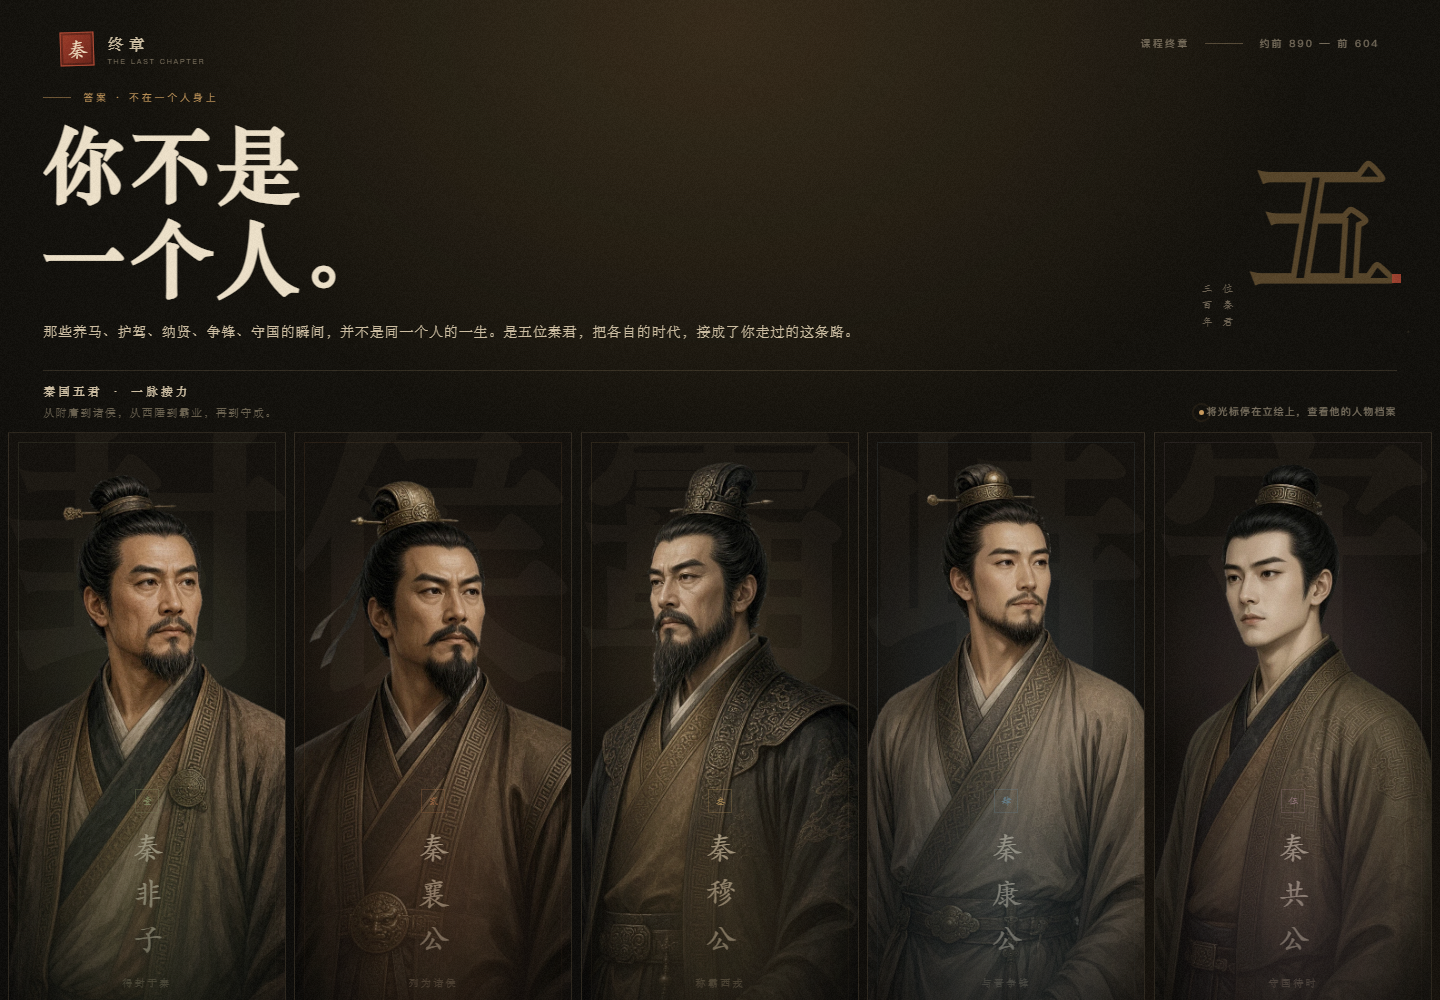
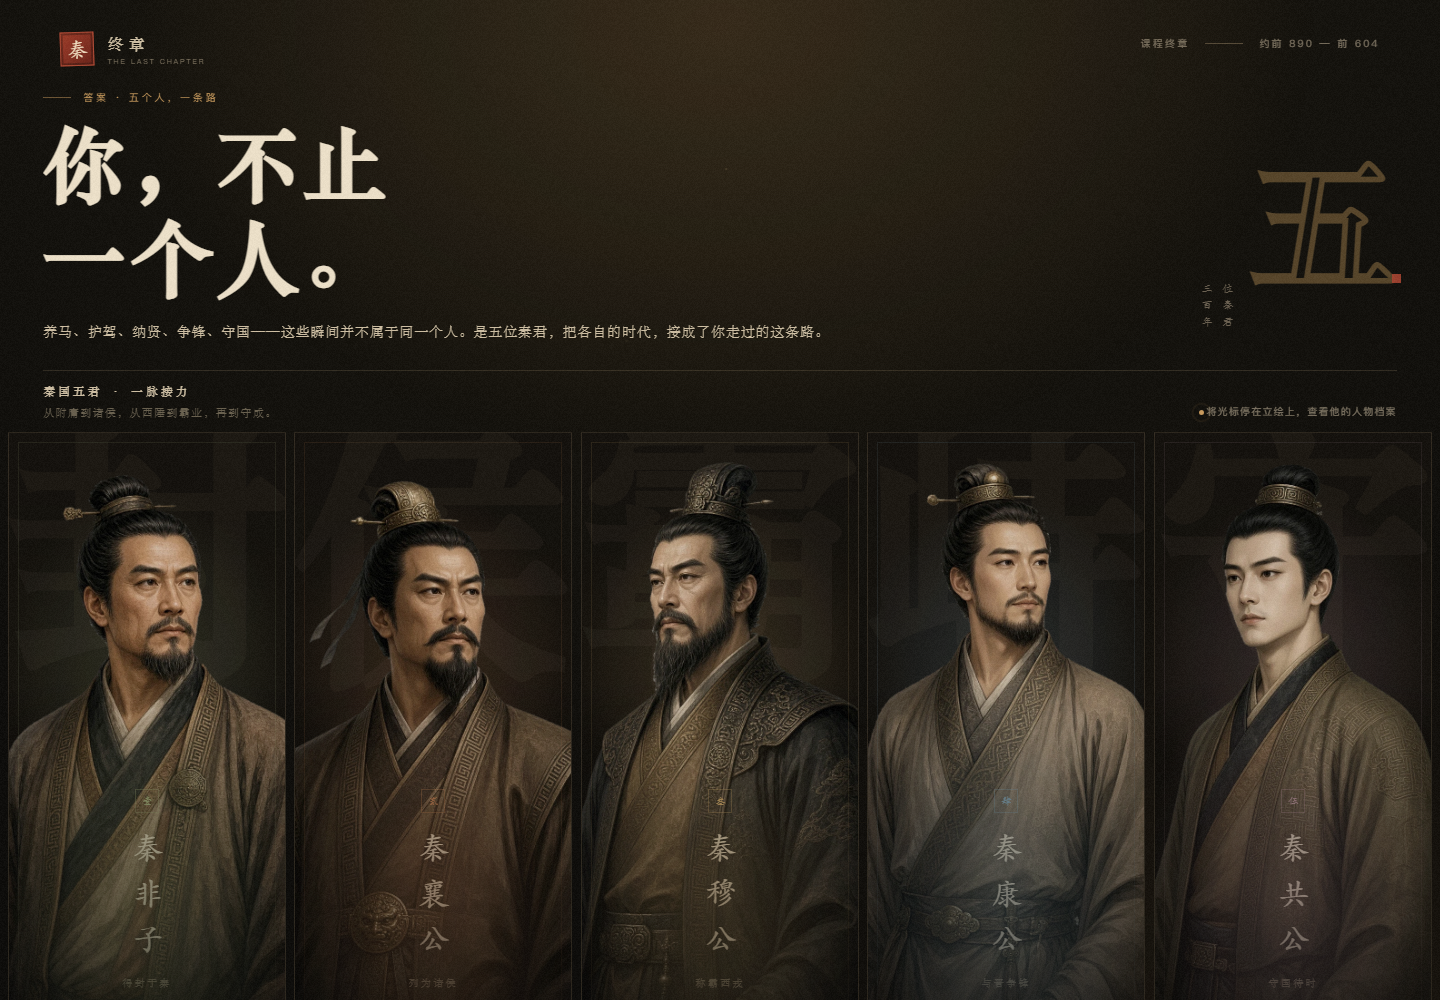
copy: reframe headline as more than one person

Changed region(s): [[0.0312, 0.31, 0.5938, 0.341], [0.0938, 0.093, 0.2812, 0.217]]

diff --git a/index.html b/index.html
@@ -4,7 +4,7 @@
   <meta charset="UTF-8" />
   <meta name="viewport" content="width=device-width, initial-scale=1, viewport-fit=cover" />
   <meta name="theme-color" content="#0c0b09" />
-  <title>你不是一个人 · 秦的终章</title>
+  <title>你，不止一个人 · 秦的终章</title>
   <meta name="description" content="课程终章互动：那些你以为由一个人完成的事，其实是秦国五位君主接力的三百年。" />
   <link rel="stylesheet" href="styles.css" />
 </head>
@@ -61,12 +61,12 @@
   <main class="reveal" id="reveal" aria-labelledby="thesis-title" aria-hidden="true">
     <section class="thesis">
       <div class="thesis-copy">
-        <p class="eyebrow"><span class="eyebrow-line" aria-hidden="true"></span>答案 · 不在一个人身上</p>
+        <p class="eyebrow"><span class="eyebrow-line" aria-hidden="true"></span>答案 · 五个人，一条路</p>
         <h1 class="thesis-title" id="thesis-title" tabindex="-1">
-          <span class="title-line"><span>你不是</span></span>
+          <span class="title-line"><span>你，不止</span></span>
           <span class="title-line"><span>一个人。</span></span>
         </h1>
-        <p class="lede">那些养马、护驾、纳贤、争锋、守国的瞬间，并不是同一个人的一生。是五位秦君，把各自的时代，接成了你走过的这条路。</p>
+        <p class="lede">养马、护驾、纳贤、争锋、守国——这些瞬间并不属于同一个人。是五位秦君，把各自的时代，接成了你走过的这条路。</p>
       </div>
       <div class="thesis-mark" aria-hidden="true">
         <span class="mark-number">五</span>

diff --git a/styles.css b/styles.css
@@ -1,5 +1,5 @@
 /* =========================================================
-   秦 · 终章 — “你不是一个人”
+   秦 · 终章 — “你，不止一个人”
    A single-page closing interaction for a history course.
    ========================================================= */
 

diff --git a/README.md b/README.md
@@ -1,4 +1,4 @@
-# 秦 · 终章 —— “你不是一个人”
+# 秦 · 终章 —— “你，不止一个人”
 
 课程结尾互动页：接在“我”内心 OS「所以这一次，我到底是谁呢？」之后，用五位秦国君主依次排开的立绘，把前文那个单数的“我”，反转为一条由多个人接力的国运。
 
@@ -46,7 +46,7 @@
 | 需求 | 实现 |
 | --- | --- |
 | 接在“我到底是谁呢”之后 | 独立页内置同一句内心 OS 作为序幕；支持由课程播放器调用 `QinEnding.reveal()` 精确接管时机 |
-| 揭示“不是一个人” | 标题直接写“你不是一个人”；下方文案明确“不是同一个人的一生，是五位秦君” |
+| 揭示“不止一个人” | 标题写“你，不止一个人”；下方文案明确“这些瞬间不属于同一个人，是五位秦君” |
 | 五位君主立绘依次排开 | 秦非子 → 秦襄公 → 秦穆公 → 秦康公 → 秦共公，横向五栏，桌面等宽、移动横滑 |
 | 悬停谁，谁原位放大 | 五张卡宽度固定；悬停卡只做 `translateY + scale`，不改变相邻卡布局 |
 | 播放自己的功绩文字 | 底部人物档案带显示“我做的是——”，正文用逐字打字机播放；换人时重新播放 |
